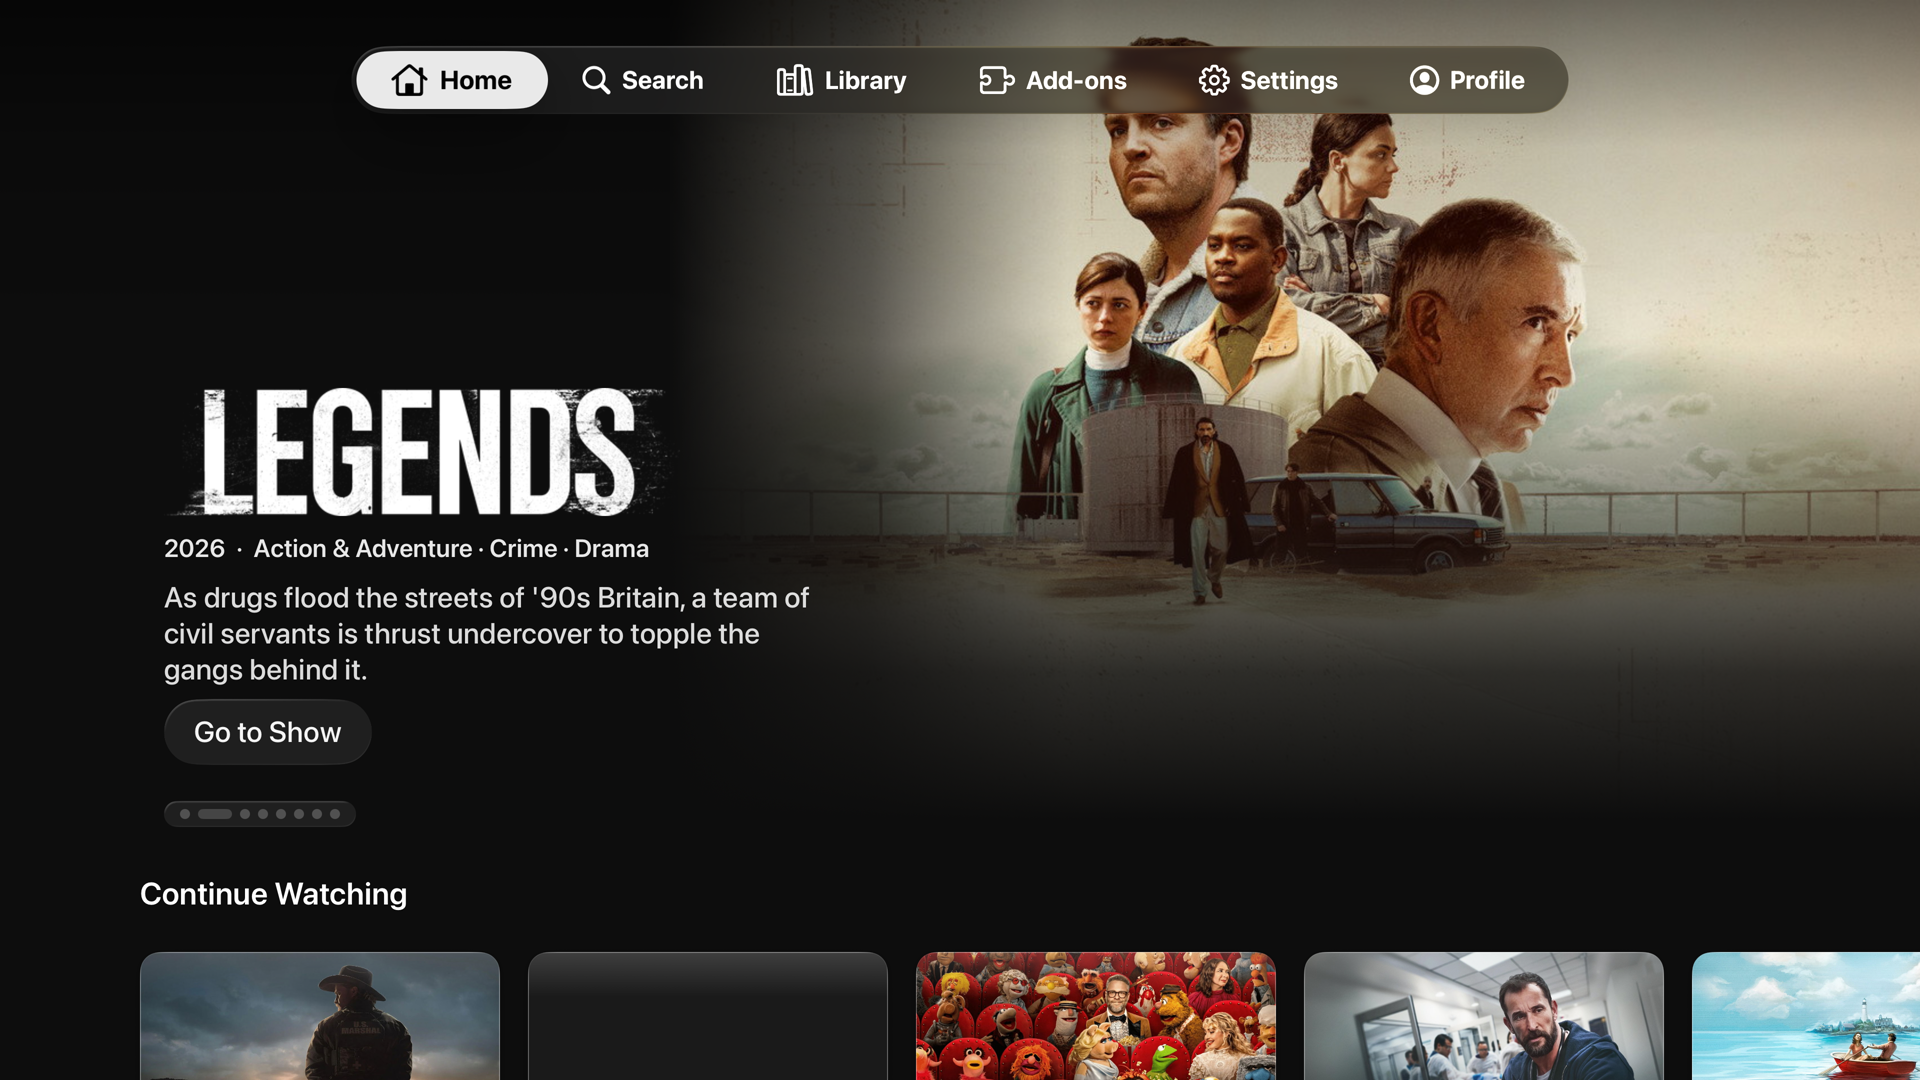
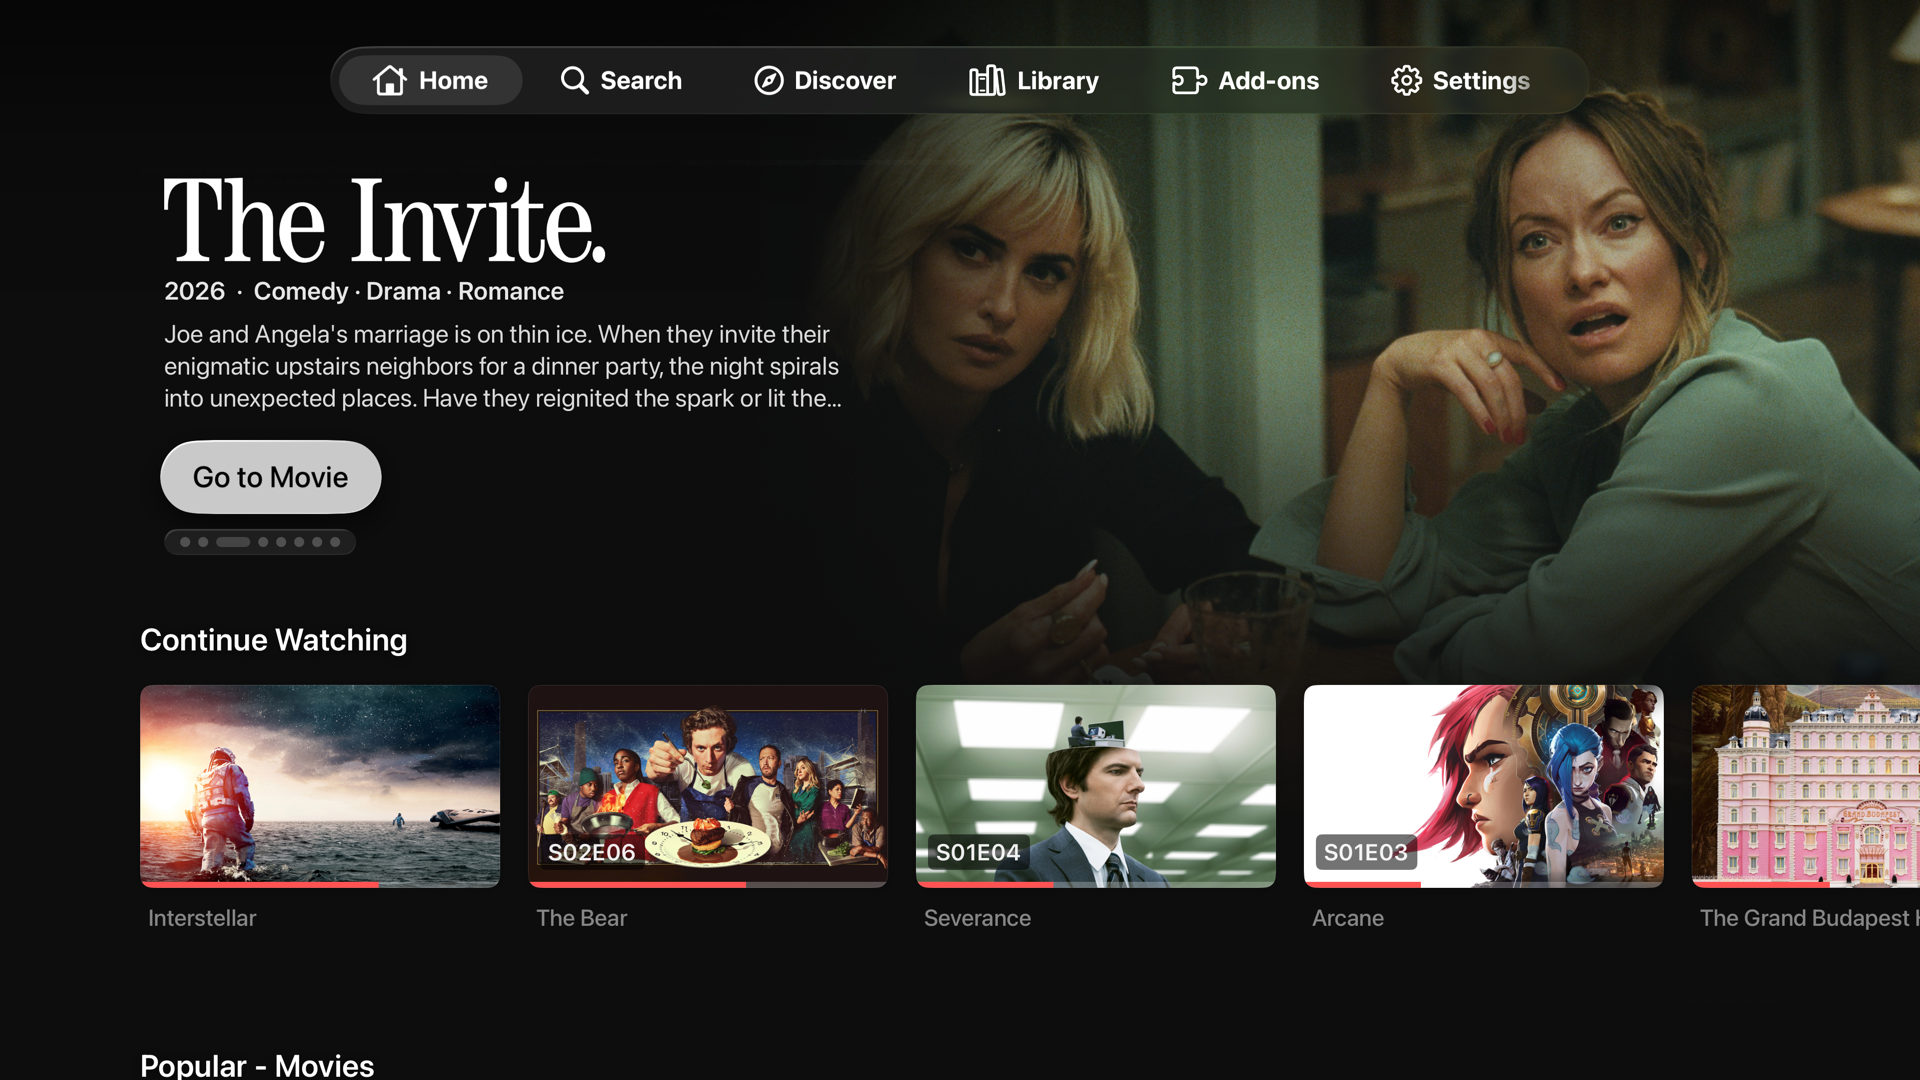
README: retake the screenshots at 1920x1080 on a guest profile; new captions
28 screenshots replaced, 5 added (Home Watchlist row, Apple-style Detail,
Library Genre menu, Source Fallback settings, localized UI), 6 removed
(home, detail, episodes, player, search, season-posters). The Screenshots
table lists all 33 with the approved captions.

diff --git a/README.md b/README.md
@@ -30,19 +30,21 @@ This fork keeps the parts of NuvioMobile that suit a TV and leaves its touch UI 
 
 | | |
 |:---:|:---:|
-| ![Stage Home](design/screenshots/home-stage.png) <br/> **Home (Stage)**: the focused title's art, logo and synopsis above one row at a time | ![Search results](design/screenshots/search-results.png) <br/> **Search**: the system search field, suggestions, a Top result and rows by type |
-| ![Catalog browsing](design/screenshots/catalog.png) <br/> **Catalogs**: addon catalogs with filter chips | ![Cinematic description page](design/screenshots/detail-cinematic.png) <br/> **Detail (Cinematic)**: the logo, ratings and synopsis over a full-bleed backdrop, with studio and Parental Guide chips |
-| ![Season hold menu](design/screenshots/season-hold-menu.png) <br/> **Series**: hold a season poster to mark the season watched. Hide Spoilers blurs unwatched episodes | ![Player panel](design/screenshots/player-subtitle-timing.png) <br/> **Player panel**: subtitle delay steps and Sync Line in the Subtitles tab |
-| ![Grouped stream picker](design/screenshots/streams.png) <br/> **Streams**: per-addon groups, debrid-cached & quality badges | ![Debrid settings](design/screenshots/debrid.png) <br/> **Debrid**: TorBox, Premiumize, Real-Debrid & AllDebrid |
-| ![Appearance settings](design/screenshots/appearance.png) <br/> **Appearance**: accent themes & poster styles, synced per profile | ![Subtitles and Audio settings](design/screenshots/settings-languages.png) <br/> **Subtitles & Audio**: Fallback Audio Language and Fallback Subtitle Language, None by default |
-| ![Localized hero](design/screenshots/hero-localized.png) <br/> **Localized hero**: TMDB supplies title logos, synopsis & genres in your language | ![Wide catalog rows](design/screenshots/landscape-rows.png) <br/> **Wide rows**: 16:9 cards with titles; the focused card lifts clear |
+| ![Stage Home](design/screenshots/home-stage.png) <br/> **Home (Stage)**: the focused title's art, logo and synopsis above one row at a time | ![Home Watchlist row](design/screenshots/home-watchlist.png) <br/> **Home (Watchlist)**: your Trakt watchlist and Simkl Plan to Watch appear as a row under Continue Watching when either is connected. On by default |
+| ![Catalog browsing](design/screenshots/catalog.png) <br/> **Catalogs**: See All opens a catalog as a poster grid | ![Cinematic description page](design/screenshots/detail-cinematic.png) <br/> **Detail (Cinematic)**: the logo, ratings and synopsis over a full-bleed backdrop, with studio and Parental Guide chips |
+| ![Search results](design/screenshots/search-results.png) <br/> **Search**: the system search field, suggestions, a Top result and rows by type | ![Apple-style description page](design/screenshots/detail-apple-style.png) <br/> **Detail (Apple-style)**: the Cinematic look with the Apple TV app's row order and season tabs, selected under Detail Layout |
+| ![Season hold menu](design/screenshots/season-hold-menu.png) <br/> **Series**: hold a season poster to mark the season watched. Hide Spoilers blurs unwatched episodes | ![Player panel](design/screenshots/player-subtitle-timing.png) <br/> **Player panel**: subtitle delay steps and Sync Line in the Subtitles tab. Film: *Sintel*, (c) Blender Foundation \| durian.blender.org, CC BY 3.0 |
+| ![Grouped stream picker](design/screenshots/streams.png) <br/> **Streams**: a Best Pick at the top, followed by sources grouped by quality, with a filter for each add-on | ![Debrid settings](design/screenshots/debrid.png) <br/> **Debrid**: Torbox, Premiumize & AllDebrid, connected with a code on your phone or an API key |
+| ![Source Fallback settings](design/screenshots/settings-source-fallback.png) <br/> **Source Fallback** (Settings → Sources): if a source picked for you fails or doesn't start in time, the next matching one plays. On by default; Sources to Try 3, Start-Up Limit 15 s | ![Subtitles and Audio settings](design/screenshots/settings-languages.png) <br/> **Subtitles & Audio**: fallback audio and subtitle languages for when your first choice has no track. None by default |
+| ![Appearance settings](design/screenshots/appearance.png) <br/> **Appearance**: seven accent themes, synced per profile, with focus and OLED switches below | ![Localized UI](design/screenshots/localization.png) <br/> **Localized**: English, French, Spanish, German, Italian & Vietnamese |
+| ![Localized hero](design/screenshots/hero-localized.png) <br/> **Localized hero**: TMDB supplies the synopsis and genres in your language, and the title logo when it has one | ![Wide catalog rows](design/screenshots/landscape-rows.png) <br/> **Wide rows**: 16:9 cards with titles; the focused card lifts clear |
 | ![Nuvio-Style Hero](design/screenshots/hero-nuvio.png) <br/> **Nuvio-Style Hero** (opt-in): information on the left, artwork blending in from the right | ![Trailers on Focus](design/screenshots/trailer-morph.png) <br/> **Trailers on Focus**: the poster widens in its row and plays the trailer. When titles are hidden, the logo stays on the tile |
 | ![Pinned hero](design/screenshots/hero-pinned.png) <br/> **Pinned hero**: with Nuvio-Style enabled, the hero follows the focused title while only the rows scroll | ![Self-hosted server review](design/screenshots/self-hosted-server.png) <br/> **Self-hosted servers**: connect to your own backend, with discovery, capability details & a trust review before switching |
-| ![TMDB filter editor](design/screenshots/tmdb-filter-editor.png) <br/> **TMDB filters on the TV**: edit a Discover folder's filters, including exclusions, on Apple TV and sync them to your account | ![Trailer Location setting](design/screenshots/trailer-location.png) <br/> **Trailer Location**: play the focused title's trailer in the hero instead of widening the poster. Autoplay Hero Trailer needs no focus |
-| ![Collection artwork in the hero](design/screenshots/collection-folder-hero.png) <br/> **Collection artwork in the hero**: focus a collection tile and the hero uses that folder's backdrop and title logo | ![Bigger season posters](design/screenshots/season-posters.png) <br/> **Season posters**: the season row matches the More Like This tile size |
-| ![Classic Home](design/screenshots/home-classic.png) <br/> **Home (Classic)**: the hero carousel layout, picked under Home Layout | ![Collection folder page](design/screenshots/folder-page.png) <br/> **Collection folders**: the Stage layout inside a folder, one row per source |
+| ![TMDB filter editor](design/screenshots/tmdb-filter-editor.png) <br/> **TMDB filters on the TV**: edit a Discover folder's filters, including exclusions, on Apple TV and sync them to your account | ![Trailer Location setting](design/screenshots/trailer-location.png) <br/> **Trailer Location**: with Nuvio-Style Hero on, Hero plays the focused title's trailer in the hero instead of widening the poster. Autoplay Hero Trailer needs no focus |
+| ![Collection artwork in the hero](design/screenshots/collection-folder-hero.png) <br/> **Collection artwork in the hero**: focus a collection tile and the hero uses that folder's backdrop and its title logo or name | ![Collection folder page](design/screenshots/folder-page.png) <br/> **Collection folders**: the Stage layout inside a folder, one row per source |
+| ![Classic Home](design/screenshots/home-classic.png) <br/> **Home (Classic)**: the hero carousel layout, picked under Home Layout | ![Discover tab](design/screenshots/discover.png) <br/> **Discover**: its own tab, a poster grid you narrow with the pills at the top |
 | ![Rail in the Centre position](design/screenshots/rail-centre.png) <br/> **Rail, Centre**: a glass column of tabs on the left edge, with labels or icons only | ![Rail in the Corner position](design/screenshots/rail-corner.png) <br/> **Rail, Corner**: flush in the top-left corner, opening downward from the Home icon |
-| ![Discover tab](design/screenshots/discover.png) <br/> **Discover**: its own tab, a poster grid you narrow with the pills at the top | ![Library](design/screenshots/library.png) <br/> **Library**: filter by type and watch state; posters show a tick or a progress bar |
+| ![Library](design/screenshots/library.png) <br/> **Library**: one row of menus to filter by type, genre, year or watch state, and to sort; posters show a tick or a progress bar | ![Library Genre menu](design/screenshots/library-genre-menu.png) <br/> **Genre menu**: each genre shows how many of your titles it holds. Year does the same |
 | ![Square action buttons](design/screenshots/detail-square.png) <br/> **Square corners**: with Poster Corners on Square, the Detail buttons are square and one size | ![Loading screen](design/screenshots/loading-screen.png) <br/> **Loading screen**: the title logo pulses while a video starts, in your language |
 | ![Settings root](design/screenshots/settings-root.png) <br/> **Settings**: grouped panes, with the focused row explained on the left |  |
 
